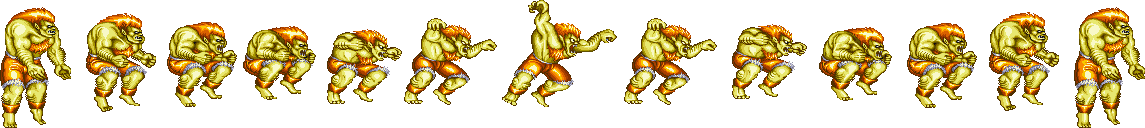
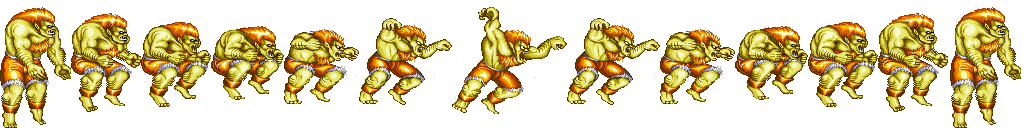
Updated jumping animation

diff --git a/src/com/abraham/PlayerOne.java b/src/com/abraham/PlayerOne.java
@@ -24,6 +24,8 @@ public class PlayerOne extends Player{
     private final int CROUCHING      = 3;
     private final int Jumping        = 9;
 
+    private final int MAX_SPEED = 2;
+
 
     // dummy var for checks
     private final int DUMMY = 19;
@@ -35,7 +37,7 @@ public class PlayerOne extends Player{
     private Animate jump;
 
 
-    private final int JUMP_SPEED = -15;
+    private final int JUMP_SPEED = -18;
 
 
 
@@ -55,7 +57,7 @@ public class PlayerOne extends Player{
         standing = new Animate(110, Images.standing);
         walkLeft = new Animate(100, Images.walkingLeft);
         walkRight = new Animate(110, Images.walkingRight);
-        jump = new Animate(60, Images.jump);
+        jump = new Animate(75, Images.jump);
 
     }
 
@@ -98,7 +100,6 @@ public class PlayerOne extends Player{
 
 
         if (y == 350) {
-
             // if press d, move forward
             if (game.getKey().d ) {
                 velocityX = 2;
@@ -136,8 +137,6 @@ public class PlayerOne extends Player{
         // wdate horizontal pos.
         x += velocityX;
 
-
-
         if(y < 350){
             fall();
         }
@@ -152,7 +151,21 @@ public class PlayerOne extends Player{
     public void fall(){
         velocityY += GRAVITY;
 
+        // if greater than max speed, just equal max speed
+        if (velocityY > MAX_SPEED){
+            velocityY = MAX_SPEED + 3;
+        }
+
+        // if horizontally still...
+        if (velocityX == 0) {
+            // jump anims
+            if (jump.getFrame() >= 3 && jump.getFrame() <= 4) {
+                velocityY = 0;
+            }
+        }
+
         y += velocityY;
+
 
     }
 
@@ -165,6 +178,7 @@ public class PlayerOne extends Player{
 
         // except active anim
         animations[unchanged] = true;
+
     }
 
 
@@ -186,13 +200,14 @@ public class PlayerOne extends Player{
         g.setColor(new Color(0,0,0, 150));
         g.fillOval((int) (x), 260 * Main.SCALE, 160, 16);
 
+
         if (animations[Walking_Right]) {
 
-            g.drawImage(getCurrentAnimFrame(), (int) x - 5, (int) y, getCurrentAnimFrame().getWidth() * 2, getCurrentAnimFrame().getHeight() * 2,null);
+            g.drawImage(getCurrentAnimFrame(), (int) x , (int) y, getCurrentAnimFrame().getWidth() * 2, getCurrentAnimFrame().getHeight() * 2,null);
         } else if (animations[Walking_Left]) {
-            g.drawImage(getCurrentAnimFrame(), (int) x - 5, (int) y, getCurrentAnimFrame().getWidth() * 2, getCurrentAnimFrame().getHeight() * 2,null);
+            g.drawImage(getCurrentAnimFrame(), (int) x , (int) y, getCurrentAnimFrame().getWidth() * 2, getCurrentAnimFrame().getHeight() * 2,null);
         } else if (animations[Jumping]){
-            g.drawImage(getCurrentAnimFrame(), (int) x - 5, (int) y - 130, getCurrentAnimFrame().getWidth() * 2, getCurrentAnimFrame().getHeight() * 2,null);
+            g.drawImage(getCurrentAnimFrame(), (int) x - 5, (int) y - 25, getCurrentAnimFrame().getWidth() * 2, getCurrentAnimFrame().getHeight() * 2,null);
         } else {
             g.drawImage(getCurrentAnimFrame(), (int) x, (int) y , getCurrentAnimFrame().getWidth() * 2, getCurrentAnimFrame().getWidth() * 2,null);
         }

diff --git a/src/com/abraham/Images.java b/src/com/abraham/Images.java
@@ -13,10 +13,10 @@ public class Images {
     public static BufferedImage[] crouch = new BufferedImage[1];
 
 
-    public static BufferedImage[] jump = new BufferedImage[7];
+    public static BufferedImage[] jump = new BufferedImage[14];
 
     public static BufferedImage[] punch = new BufferedImage[13];
-    public static BufferedImage[] kick = new BufferedImage[13];
+    public static BufferedImage[] kick = new BufferedImage[14];
 
     public static void init() throws IOException{
 //        Debugging to see what files were in the directory
@@ -25,6 +25,8 @@ public class Images {
         SpriteSheet walkLeft = new SpriteSheet(ImageLoader.loadImage("movingFoward.png"));
         SpriteSheet stand = new SpriteSheet(ImageLoader.loadImage("standing.png"));
         SpriteSheet jumping = new SpriteSheet(ImageLoader.loadImage("jump.png"));
+        SpriteSheet jumping1 = new SpriteSheet(ImageLoader.loadImage("jump1.png"));
+        SpriteSheet jumping2 = new SpriteSheet(ImageLoader.loadImage("jump2.png"));
 
 
          // basic movement:
@@ -42,11 +44,28 @@ public class Images {
 
         jump[0] = jumping.crop(71, 128, 0, 0);
         jump[1] = jumping.crop(71, 128, 0, 0);
-        jump[2] = jumping.crop(71, 128, 0, 0);
-        jump[3] = jumping.crop(71, 128, 0, 0);
-        jump[4] = jumping.crop(71, 128, 0, 0);
-        jump[5] = jumping.crop(71, 128, 0, 0);
-        jump[6] = jumping.crop(71, 128, 0, 0);
+        for(int i = 2; i < 5; i++){
+            jump[i] = jumping.crop(71,128,71*(i-1), 0);
+;
+        }
+        jump[5] = jumping1.crop(93, 128, 0, 0);
+        jump[6] = jumping2.crop(116, 128, 0, 0);
+        jump[7] = jumping2.crop(116, 128, 0, 0);
+        jump[8] = jumping1.crop(93, 128, 0, 0);
+        int count = 4;
+        for(int i = 9; i < 12; i++){
+            jump[i] = jumping.crop(71,128,71*(count), 0);
+            count--;
+        }
+        jump[12] = jumping.crop(71, 128, 0, 0);
+        jump[13] = jumping.crop(71, 128, 0, 0);
+
+//        jump[7] = jumping.crop(82, 128, 82*6, 0);
+//        jump[8] = jumping.crop(110, 128, 110*7, 0);
+//        jump[9] = jumping.crop(110, 128, 110*7, 0);
+//        jump[10] = jumping.crop(71, 128, 82*8, 0);
+//        jump[11] = jumping.crop(71, 128, 82*9, 0);
+//        jump[12] = jumping.crop(71, 128, 82*10, 0);
 
 //        for (int i = 3; i < 13; i++)
 //            jump[i] = jumping.crop(70, 128, 70 * (i - 2), 0);
